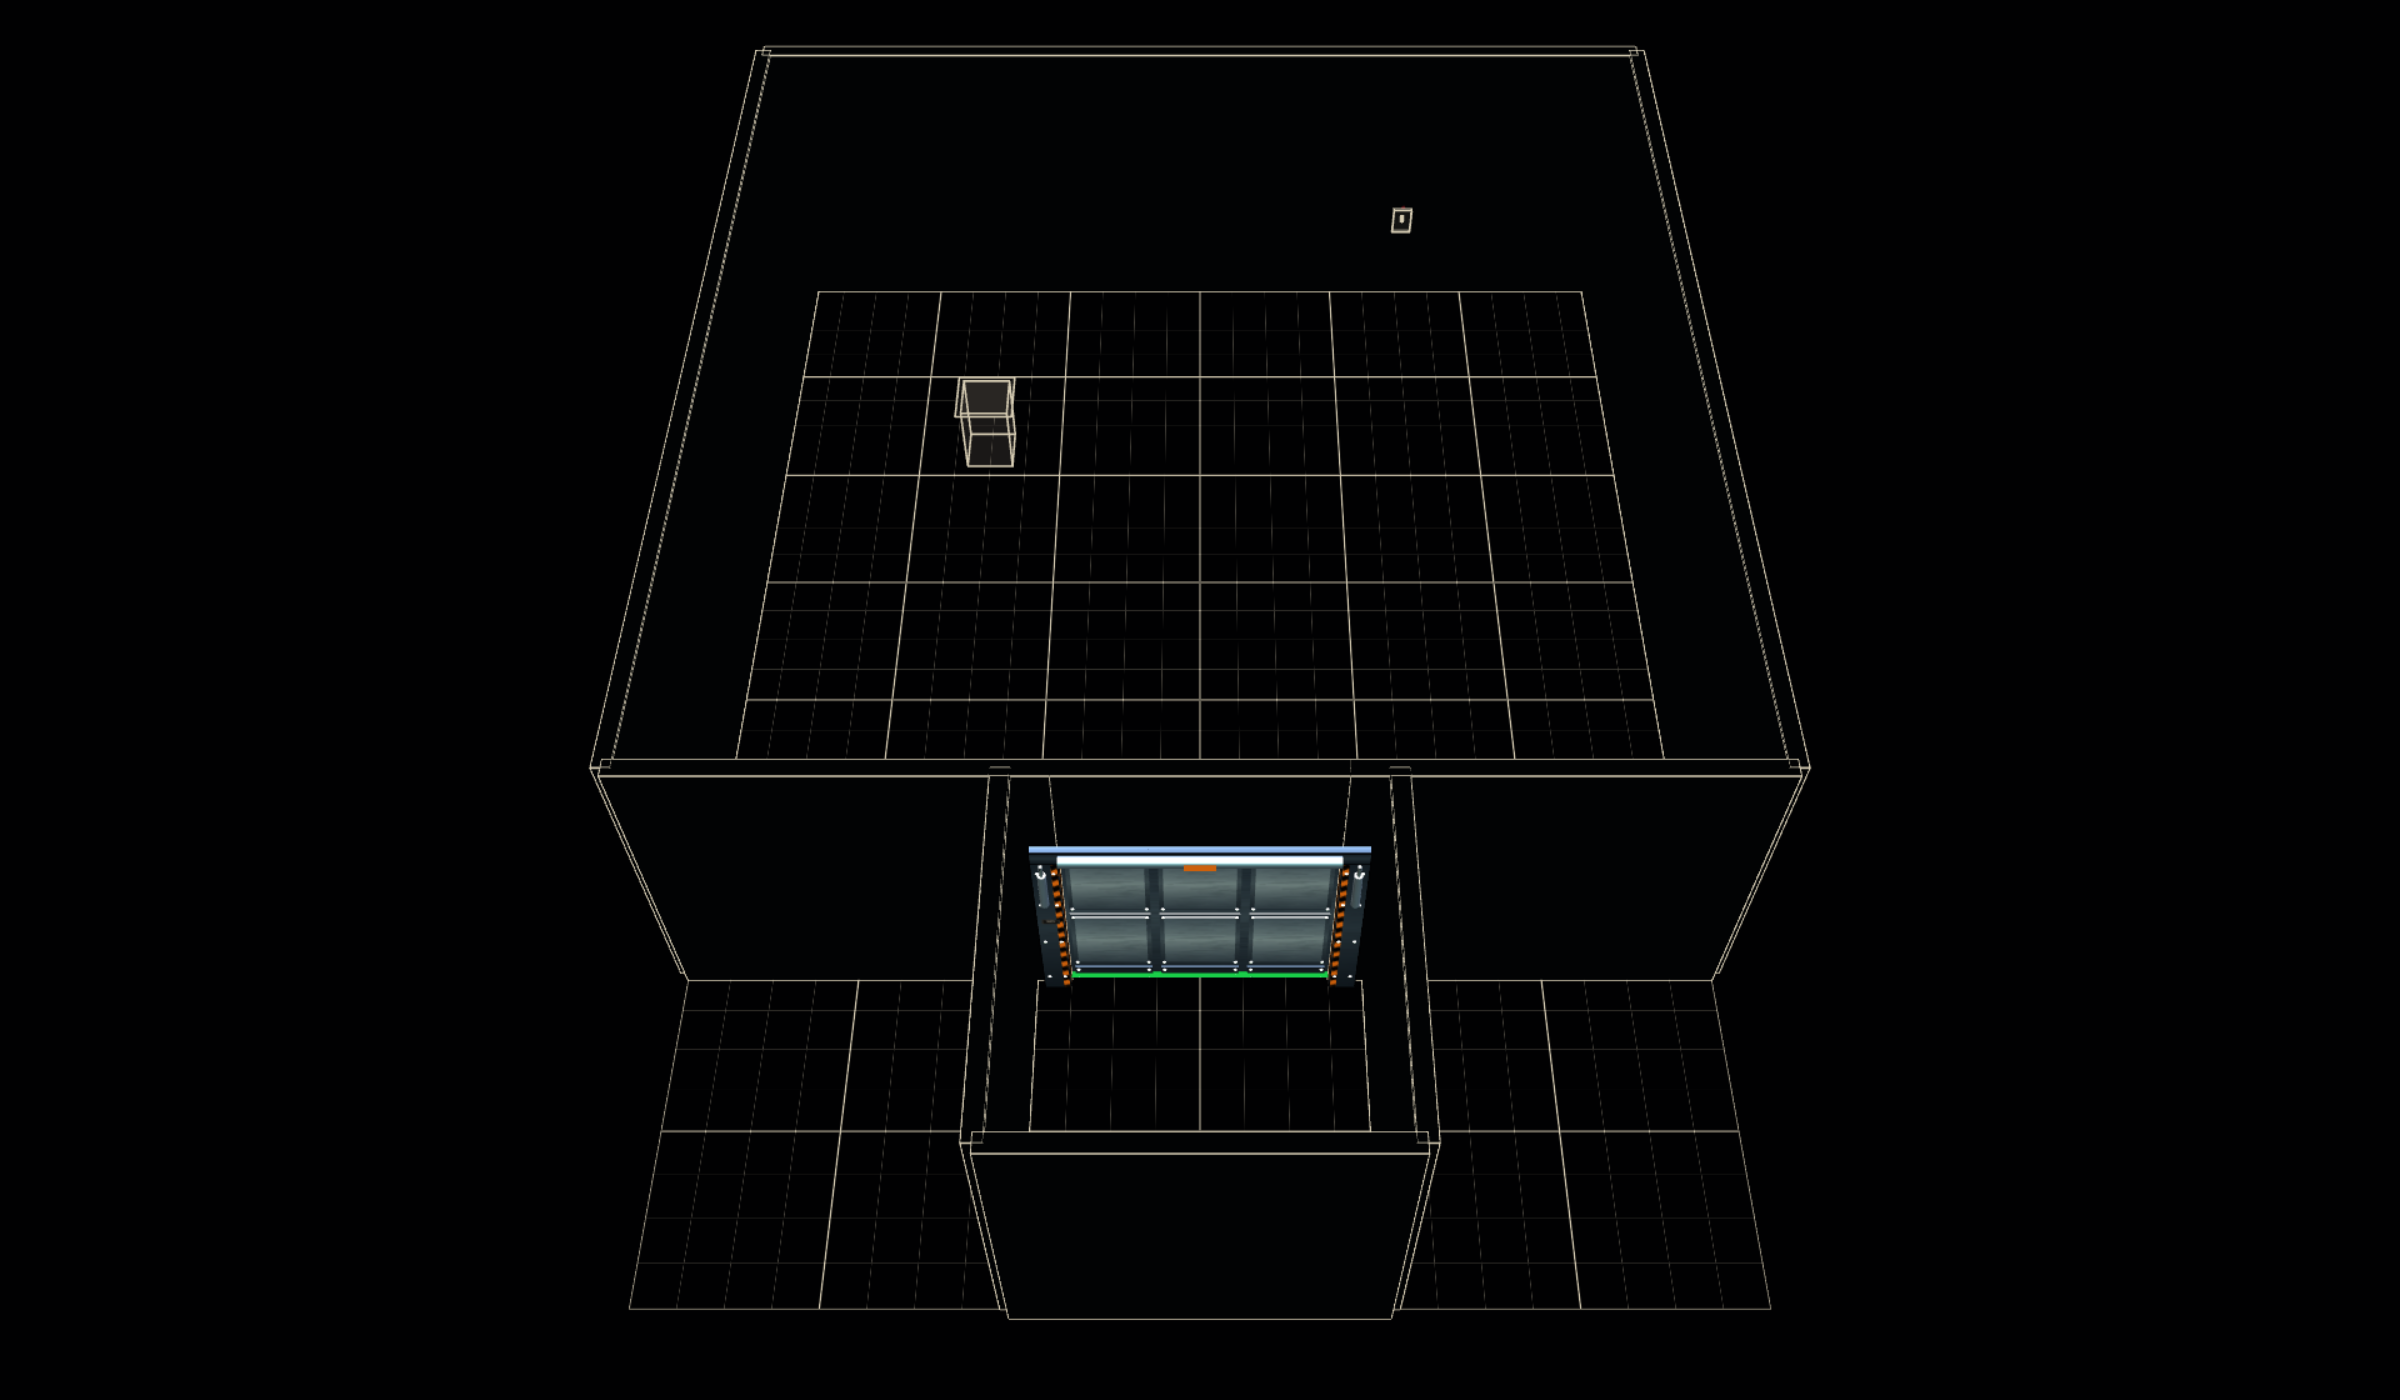
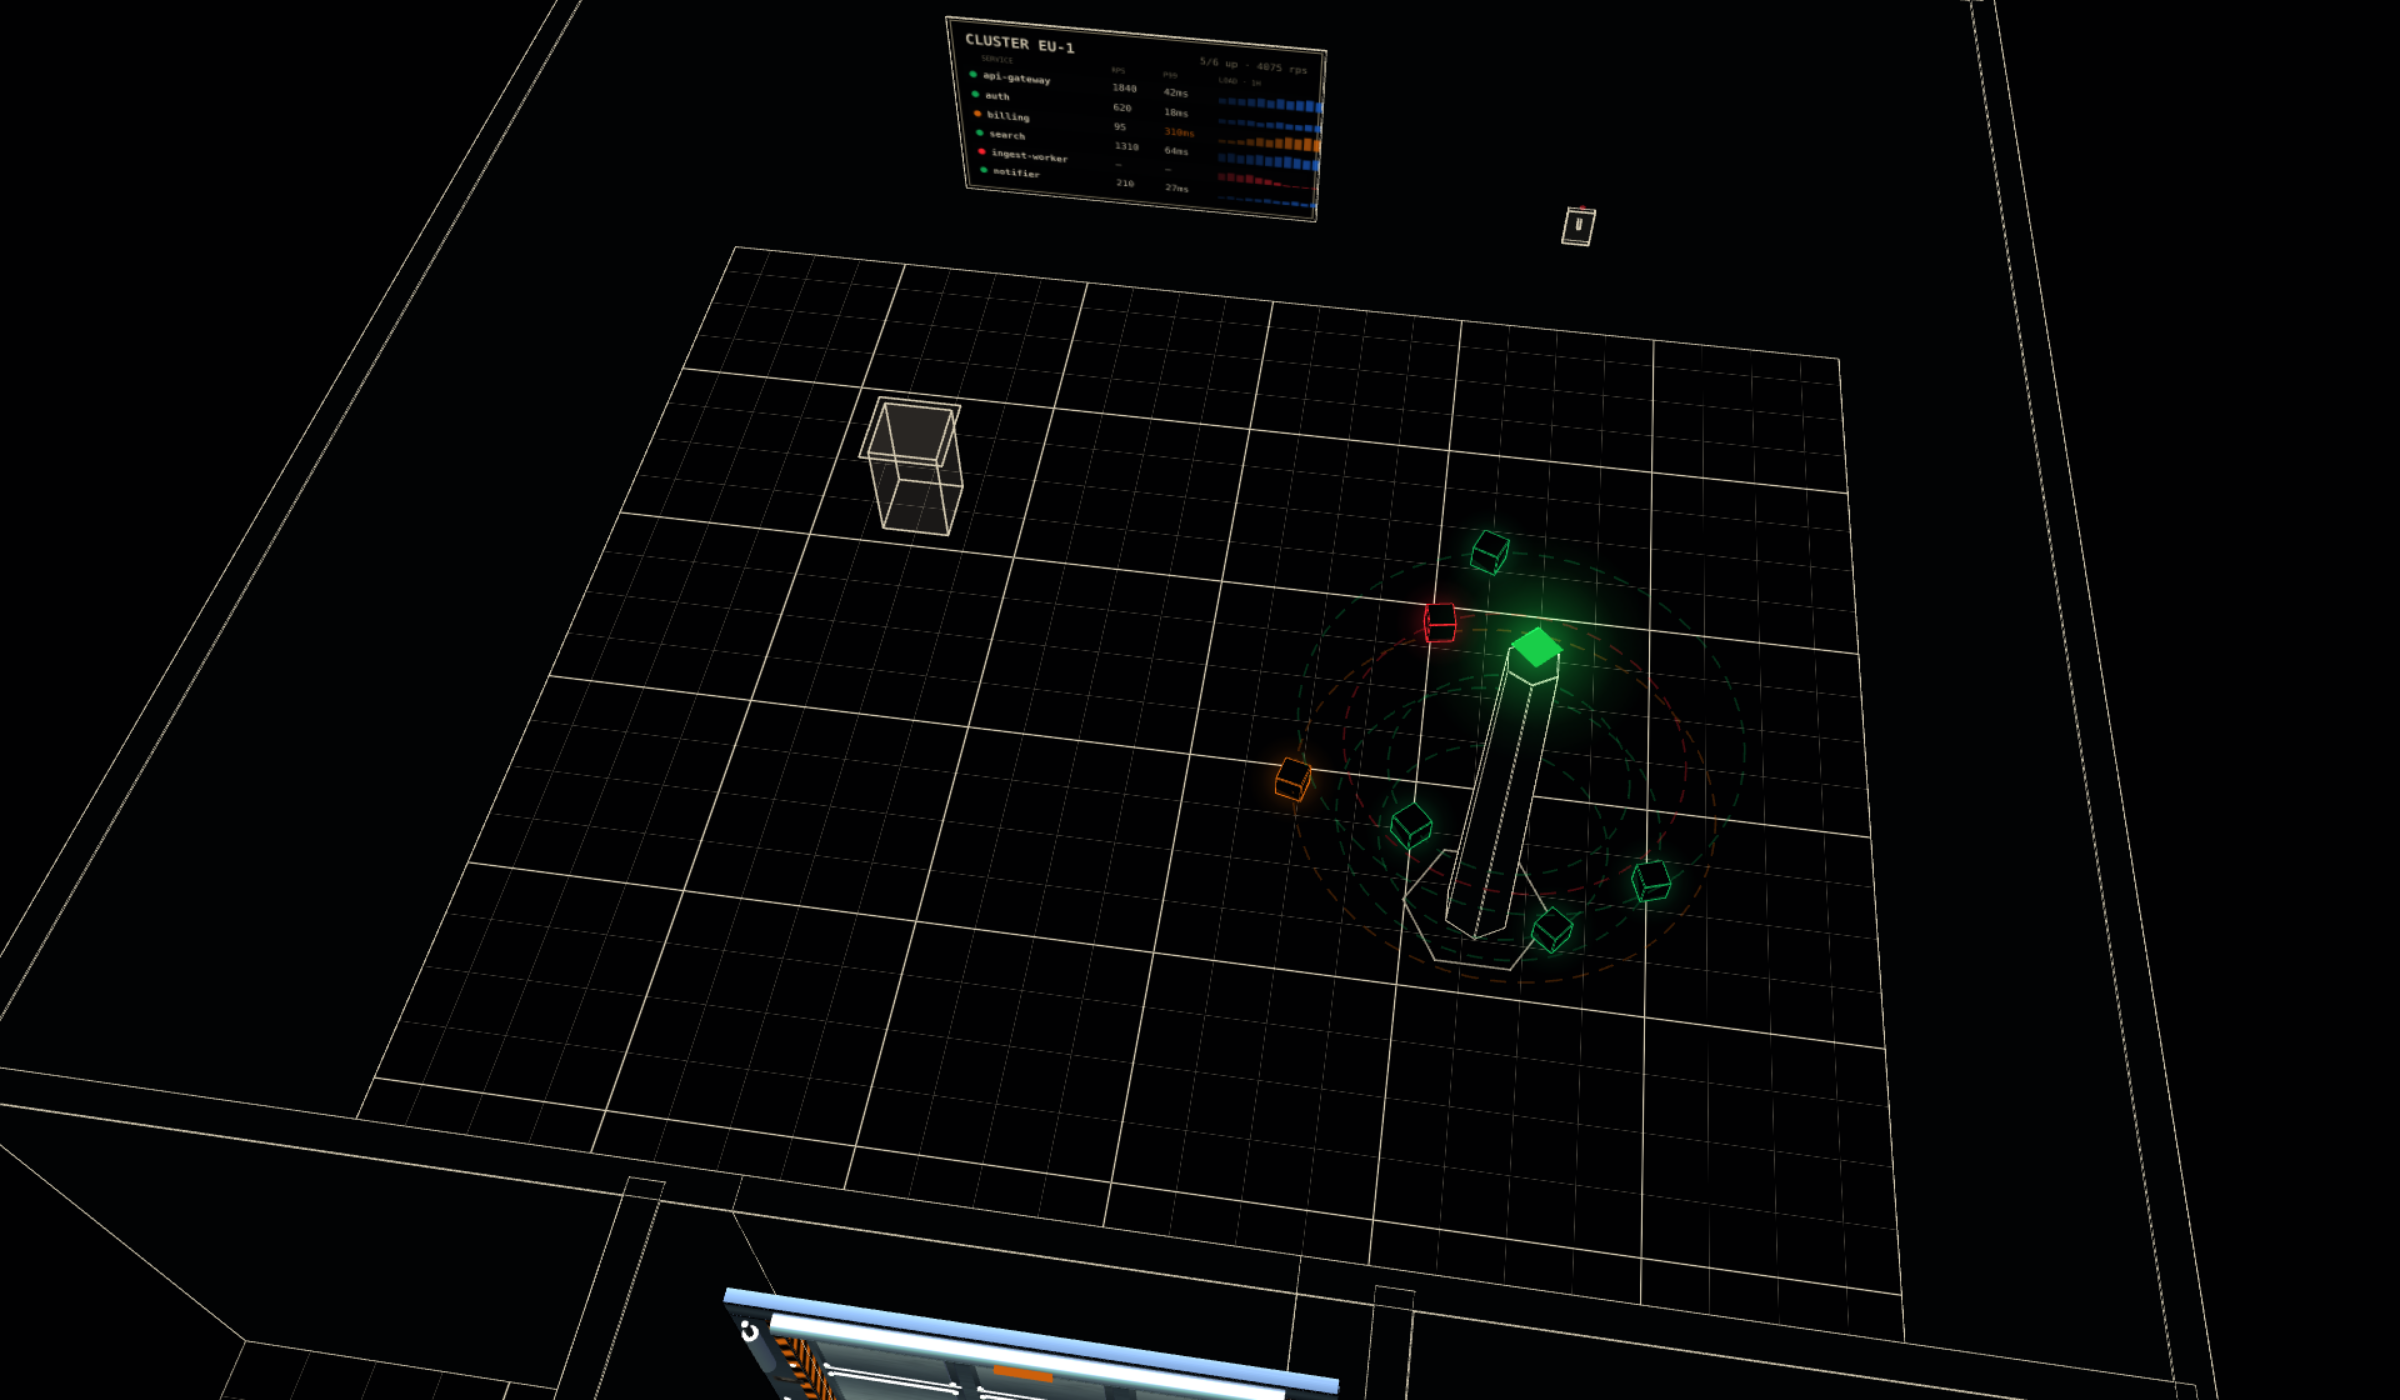
Example: a cluster room with a pylon, orbiting services and a wall dashboard
examples/basic gains clusterRoom: a pylon standing for a cluster, its
services riding status-coloured rings around it (orbitPos/ringPoints), and
a read-only dashboard canvas hung on the north wall. The pylon is a walk
solid. The example's orbit home moves closer and steeper so the README's
overview shows the room rather than the outside of its walls; the
screenshot script's plinth click follows it, and both images are
regenerated.

Claude-Session: https://claude.ai/code/session_019EPYUWz9gcB9uawZGoN76F

diff --git a/examples/basic/src/clusterRoom.tsx b/examples/basic/src/clusterRoom.tsx
@@ -1,0 +1,209 @@
+// A room with no terminal: a cluster drawn as a pylon with its services in
+// orbit around it, and a read-only dashboard hung on the north wall. The data
+// is fake and fixed; a real host would feed both from useModel.
+import { useEffect, useMemo, useRef } from "react";
+import { Edges, Line } from "@react-three/drei";
+import { useFrame } from "@react-three/fiber";
+import { AdditiveBlending, type Group } from "three";
+import {
+  BOARD_STANDOFF, CRITICAL, INFO, INK, OK, PAPER, PAPER_DIM, PHOS, WALL_FILL, WARN,
+  DEFAULT_ORBIT_SPEED, defineRoom, getGlowTexture, hungOnWall, orbitAngle, orbitPos, ringPoints, useCanvasTexture,
+} from "site-world";
+import { HALF } from "./layout";
+
+const PYLON: [number, number] = [2.6, 1.2];
+const PYLON_R = 0.28;
+const PYLON_H = 3.4;
+
+type Status = "ok" | "warn" | "down";
+interface Service { name: string; status: Status; rps: number; p99: number; load: readonly number[] }
+
+const COLOR: Record<Status, string> = { ok: OK, warn: WARN, down: CRITICAL };
+
+const SERVICES: readonly Service[] = [
+  { name: "api-gateway", status: "ok", rps: 1840, p99: 42, load: [5, 6, 6, 7, 8, 7, 9, 8, 9, 10, 9, 11] },
+  { name: "auth", status: "ok", rps: 620, p99: 18, load: [4, 4, 5, 5, 4, 5, 6, 5, 5, 6, 6, 5] },
+  { name: "billing", status: "warn", rps: 95, p99: 310, load: [3, 3, 4, 6, 8, 7, 9, 11, 10, 12, 11, 12] },
+  { name: "search", status: "ok", rps: 1310, p99: 64, load: [8, 9, 8, 9, 10, 9, 10, 11, 10, 9, 10, 11] },
+  { name: "ingest-worker", status: "down", rps: 0, p99: 0, load: [7, 8, 7, 8, 6, 5, 3, 1, 0, 0, 0, 0] },
+  { name: "notifier", status: "ok", rps: 210, p99: 27, load: [2, 3, 2, 3, 3, 4, 3, 3, 4, 3, 4, 4] },
+];
+
+// Each service rides its own ring: a radius, a height and a speed of its own.
+const ORBITS = SERVICES.map((s, i) => ({
+  ...s,
+  radius: 0.9 + (i % 3) * 0.35,
+  y: 1.1 + i * 0.32,
+  speed: DEFAULT_ORBIT_SPEED * (i % 2 === 0 ? 2.2 : -1.6),
+  phase: i / SERVICES.length,
+}));
+
+function Pylon() {
+  return (
+    <group position={[PYLON[0], 0, PYLON[1]]}>
+      <mesh position={[0, PYLON_H / 2, 0]}>
+        <cylinderGeometry args={[PYLON_R * 0.7, PYLON_R, PYLON_H, 6]} />
+        <meshBasicMaterial color={WALL_FILL} />
+        <Edges color={PAPER} />
+      </mesh>
+      {/* the beacon on top, and a glow so it reads as live */}
+      <mesh position={[0, PYLON_H + 0.18, 0]}>
+        <octahedronGeometry args={[0.18, 0]} />
+        <meshBasicMaterial color={PHOS} toneMapped={false} />
+      </mesh>
+      <sprite position={[0, PYLON_H + 0.18, 0]} scale={[1.6, 1.6, 1]}>
+        <spriteMaterial map={getGlowTexture()} color={PHOS} transparent opacity={0.6} depthWrite={false} blending={AdditiveBlending} />
+      </sprite>
+      {/* a footing ring on the floor */}
+      <Line points={ringPoints([0, 0], PYLON_R * 2.2, 0.01, 6)} color={PAPER} lineWidth={1} transparent opacity={0.7} />
+    </group>
+  );
+}
+
+function Orbiters() {
+  const bodies = useRef<(Group | null)[]>([]);
+  const rings = useMemo(() => ORBITS.map((o) => ringPoints(PYLON, o.radius, o.y)), []);
+  useFrame(({ clock }) => {
+    const t = clock.elapsedTime;
+    ORBITS.forEach((o, i) => {
+      const body = bodies.current[i];
+      if (!body) return;
+      const [x, z] = orbitPos(PYLON, o.radius, orbitAngle(o.phase, t, o.status === "down" ? 0 : o.speed));
+      body.position.set(x, o.y, z);
+      body.rotation.y = t * 1.5 + i;
+    });
+  });
+  return (
+    <>
+      {ORBITS.map((o, i) => (
+        <group key={o.name}>
+          <Line points={rings[i]!} color={COLOR[o.status]} lineWidth={1} transparent opacity={0.28} dashed dashSize={0.12} gapSize={0.08} />
+          <group ref={(el) => { bodies.current[i] = el; }}>
+            <mesh>
+              <boxGeometry args={[0.2, 0.2, 0.2]} />
+              <meshBasicMaterial color={INK} />
+              <Edges color={COLOR[o.status]} />
+            </mesh>
+            <sprite scale={[0.7, 0.7, 1]}>
+              <spriteMaterial map={getGlowTexture()} color={COLOR[o.status]} transparent opacity={0.45} depthWrite={false} blending={AdditiveBlending} />
+            </sprite>
+          </group>
+        </group>
+      ))}
+    </>
+  );
+}
+
+// The dashboard: a canvas drawn once, hung on the north wall's inner face.
+const BOARD_W = 3.6;
+const BOARD_H = 2.0;
+const BOARD_WALL: [number, number] = [-1.4, -HALF];
+const PX = 300; // texels per metre
+
+function drawDashboard(ctx: CanvasRenderingContext2D, w: number, h: number): void {
+  const mono = (px: number, bold = false) => `${bold ? "700 " : ""}${px}px 'IBM Plex Mono', ui-monospace, monospace`;
+  ctx.fillStyle = INK;
+  ctx.fillRect(0, 0, w, h);
+  ctx.strokeStyle = PAPER_DIM;
+  ctx.lineWidth = 4;
+  ctx.strokeRect(10, 10, w - 20, h - 20);
+
+  ctx.textBaseline = "alphabetic";
+  ctx.fillStyle = PAPER;
+  ctx.font = mono(44, true);
+  ctx.fillText("CLUSTER EU-1", 48, 82);
+  const up = SERVICES.filter((s) => s.status !== "down").length;
+  ctx.font = mono(30);
+  ctx.fillStyle = PAPER_DIM;
+  ctx.textAlign = "right";
+  ctx.fillText(`${up}/${SERVICES.length} up · ${SERVICES.reduce((n, s) => n + s.rps, 0)} rps`, w - 48, 80);
+  ctx.textAlign = "left";
+
+  // Column heads
+  const top = 150;
+  const rowH = (h - top - 40) / SERVICES.length;
+  ctx.font = mono(22);
+  ctx.fillStyle = PAPER_DIM;
+  ctx.fillText("SERVICE", 90, top - 16);
+  ctx.fillText("RPS", 470, top - 16);
+  ctx.fillText("P99", 620, top - 16);
+  ctx.fillText("LOAD · 1H", 780, top - 16);
+
+  SERVICES.forEach((s, i) => {
+    const y = top + i * rowH;
+    const mid = y + rowH / 2;
+    ctx.fillStyle = i % 2 === 0 ? "rgba(236,231,218,0.04)" : "transparent";
+    ctx.fillRect(30, y, w - 60, rowH);
+    ctx.fillStyle = COLOR[s.status];
+    ctx.beginPath();
+    ctx.arc(60, mid, 11, 0, Math.PI * 2);
+    ctx.fill();
+    ctx.font = mono(30, true);
+    ctx.fillStyle = PAPER;
+    ctx.fillText(s.name, 90, mid + 10);
+    ctx.font = mono(30);
+    ctx.fillText(s.status === "down" ? "—" : String(s.rps), 470, mid + 10);
+    ctx.fillStyle = s.p99 > 200 ? WARN : PAPER;
+    ctx.fillText(s.status === "down" ? "—" : `${s.p99}ms`, 620, mid + 10);
+    // A bar sparkline of the last hour.
+    const bw = 22;
+    const max = 12;
+    s.load.forEach((v, j) => {
+      const bh = Math.max(3, (v / max) * (rowH - 24));
+      ctx.fillStyle = s.status === "ok" ? INFO : COLOR[s.status];
+      ctx.globalAlpha = 0.45 + 0.55 * (j / s.load.length);
+      ctx.fillRect(780 + j * (bw + 6), mid + (rowH - 24) / 2 - bh, bw, bh);
+    });
+    ctx.globalAlpha = 1;
+  });
+}
+
+function Dashboard() {
+  const { canvas, texture } = useCanvasTexture(BOARD_W * PX, BOARD_H * PX);
+  useEffect(() => {
+    const ctx = canvas.getContext("2d");
+    if (!ctx) return;
+    let alive = true;
+    const paint = () => {
+      if (!alive) return;
+      drawDashboard(ctx, canvas.width, canvas.height);
+      texture.needsUpdate = true;
+    };
+    paint();
+    // Again once webfonts land: a canvas never redraws on its own.
+    void document.fonts?.ready.then(paint);
+    return () => {
+      alive = false;
+    };
+  }, [canvas, texture]);
+  const [x, z] = hungOnWall(BOARD_WALL, 0, BOARD_STANDOFF);
+  return (
+    <mesh position={[x, 2.15, z]}>
+      <planeGeometry args={[BOARD_W, BOARD_H]} />
+      <meshBasicMaterial map={texture} toneMapped={false} />
+      <Edges color={PAPER} />
+    </mesh>
+  );
+}
+
+export const clusterRoom = defineRoom({
+  id: "cluster",
+  useModel: () => null,
+  Scene() {
+    return (
+      <>
+        <Pylon />
+        <Orbiters />
+        <Dashboard />
+      </>
+    );
+  },
+  // The pylon is solid; the orbiting services are not.
+  Colliders() {
+    return (
+      <mesh position={[PYLON[0], PYLON_H / 2, PYLON[1]]}>
+        <cylinderGeometry args={[PYLON_R + 0.05, PYLON_R + 0.05, PYLON_H, 8]} />
+      </mesh>
+    );
+  },
+});

diff --git a/examples/basic/src/App.tsx b/examples/basic/src/App.tsx
@@ -3,18 +3,19 @@ import {
   FloorSolid, GridFloor, SiteWorld, WallBoxes, WallSolids, configureDoom, roomDoomConfig, type SiteCamera,
 } from "site-world";
 import { BOUNDS, DOORS, WALLS } from "./layout";
+import { clusterRoom } from "./clusterRoom";
 import { notesRoom } from "./notesRoom";
 
 // The demon game is optional: hand it the floor and the walls and it runs.
 configureDoom(roomDoomConfig({ minX: -6, maxX: 6, minZ: -6, maxZ: 6 }, WALLS.slice(0, 5)));
 
 const CAMERA: SiteCamera = {
-  home: [0, 20, 17],
-  target: [0, 0, 2],
+  home: [1.5, 14, 9.5],
+  target: [0, 0, -0.6],
   walkStart: [0, 4],
   walkLookAt: [0, 1.5, -2],
 };
-const ROOMS = [notesRoom];
+const ROOMS = [notesRoom, clusterRoom];
 
 export function App() {
   const [mode, setMode] = useState<"orbit" | "walk">("orbit");

diff --git a/README.md b/README.md
@@ -5,9 +5,9 @@ Draw your data as a *place*: rooms with boards on the walls, sliding doors, term
 and press **E** at, an orbit camera for looking around and a first-person walk mode for being in it.
 It started as the live "SITE" view of an engineering dashboard and was lifted out as a library.
 
-| Orbit view of the example world | A terminal, powered |
+| A cluster as a room: pylon, orbiting services, wall dashboard | A terminal, powered |
 | --- | --- |
-| ![The example world from the orbit camera: a room with a plinth, a doorway with a sliding door, and an annex](media/overview.png) | ![The notes terminal powered on: a green-phosphor screen standing over its plinth](media/terminal.png) |
+| ![The example world from the orbit camera: a service dashboard on the far wall, a pylon with its services orbiting it, and a terminal's plinth](media/overview.png) | ![The notes terminal powered on: a green-phosphor screen standing over its plinth](media/terminal.png) |
 
 <sub>Both from `examples/basic`. Regenerate with `bun run screenshot`.</sub>
 
@@ -57,10 +57,11 @@ import { SiteWorld, GridFloor, WallBoxes } from "site-world";
 
 ```bash
 bun install
-bun run example        # a toy world: one room, a door, a terminal, and demons
+bun run example        # a toy world: one room, a door, a terminal, a pylon, a dashboard, and demons
 ```
 
-`examples/basic/` is ~200 lines and uses only the public API. Start by reading
+`examples/basic/` is ~400 lines and uses only the public API: a terminal room (`notesRoom`) and a
+cluster room (`clusterRoom`: a pylon, services orbiting it, a dashboard on the wall). Start by reading
 [`examples/basic/src/notesRoom.tsx`](examples/basic/src/notesRoom.tsx).
 
 ## What you get
